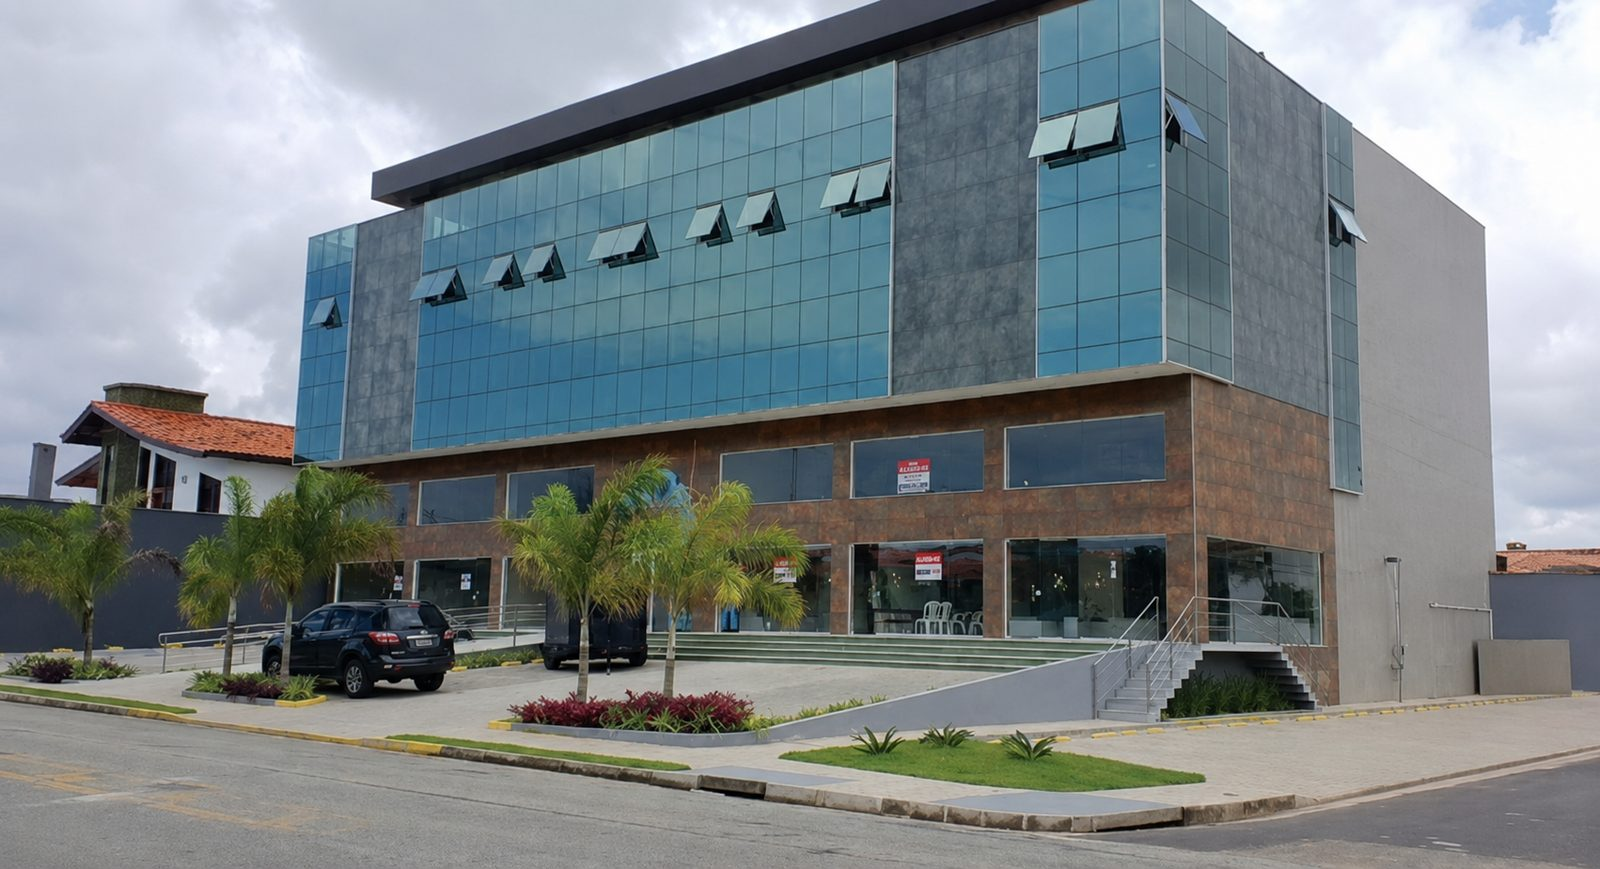
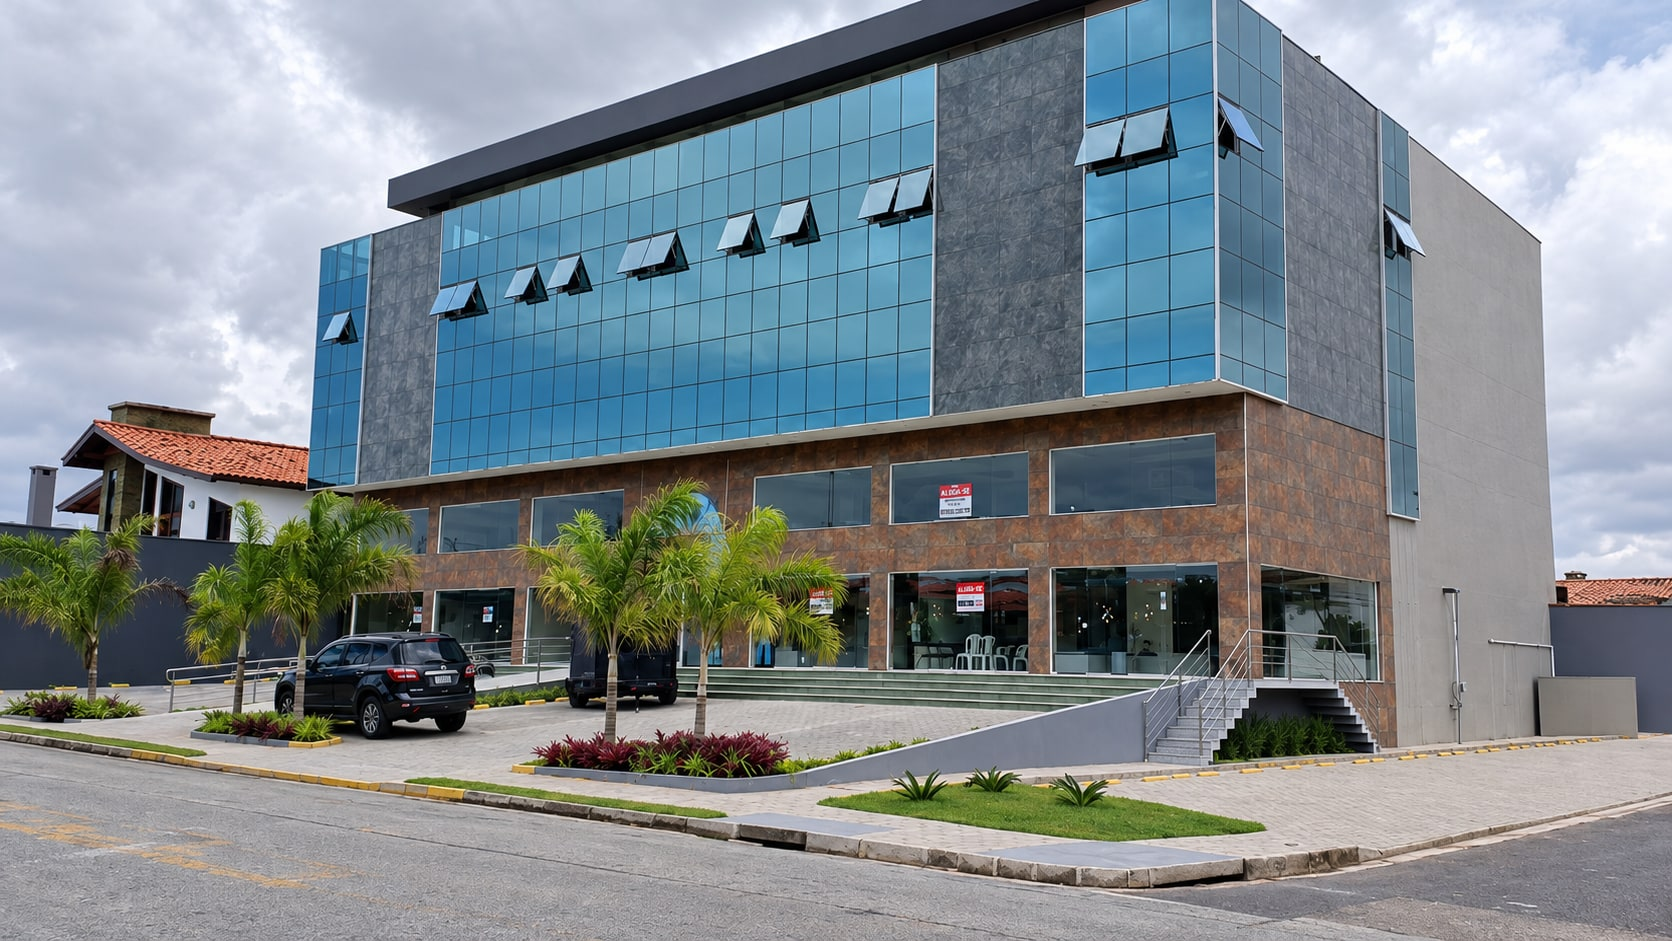
iParking: saguão na hero e a foto do prédio de volta em "Onde fica"
- Hero com a foto do saguão da Galeria A no lugar da fachada.
- "Onde fica" volta a ser a foto grande do prédio com o cartão por cima,
  agora com a fachada melhorada por IA (mais nítida, fiel ao original) e
  a frase de que as vagas ficam no subsolo e o pátio da frente é público.
- Sai o desenho em corte; ficam os três passos desenhados.

diff --git a/app/page.module.css b/app/page.module.css
@@ -102,6 +102,7 @@
 /* Uma foto só, da altura do quadro inteiro */
 .blocoFoto { margin: 0; min-height: 240px; grid-row: 1 / span 2; grid-column: 2; }
 
+.fotoSaguao { object-position: 50% 40%; }
 /* A abertura da foto principal: um obturador que corre da direita */
 .obturador { animation: abre 1.1s var(--ease-out) both; }
 .obturador .foto { animation: assenta 1.4s var(--ease-out) both; }
@@ -228,42 +229,27 @@
 
 .onde {
   margin-top: 200px;
-  padding: 0 var(--margem) var(--vao);
-  display: grid;
-  grid-template-columns: repeat(12, 1fr);
-  gap: var(--vao);
-  align-items: stretch;
+  position: relative;
+  min-height: 100svh;
 }
 
-/* O corte do prédio: mostra que a iParking é o subsolo e que o pátio da frente é público */
-.ondeDesenho {
-  grid-column: 5 / -1;
-  grid-row: 1;
-  margin: 0;
-  padding: 40px 32px 32px;
-  border-radius: var(--raio);
-  background: var(--tinta);
-  color: var(--papel);
-  display: flex;
-  flex-direction: column;
-  justify-content: space-between;
-  gap: 32px;
+.ondeFoto {
+  position: absolute;
+  inset: 0;
+  overflow: hidden;
 }
-.corte { width: 100%; height: auto; }
-.legenda { display: flex; flex-wrap: wrap; gap: 12px 32px; font-size: var(--step-body); }
-.legenda span { display: inline-flex; align-items: center; gap: 12px; }
-.legenda i { width: 20px; height: 20px; border-radius: 4px; flex: none; }
-.legendaVerde { background: var(--verde); }
-.legendaCinza { background: var(--cinza-2); }
+.ondeFoto .foto { animation: deriva 24s ease-in-out infinite alternate; }
+@keyframes deriva { from { transform: scale(1.02); } to { transform: scale(1.1) translateX(-1.5%); } }
 
 .cartao {
-  grid-column: 1 / span 4;
-  grid-row: 1;
+  position: sticky;
+  top: 60px;
+  margin: 60px 0 60px 60px;
+  width: 380px;
   background: var(--papel);
   border-radius: 8px;
   padding: 32px 32px 0;
-  display: flex;
-  flex-direction: column;
+  display: grid;
   gap: 20px;
   overflow: hidden;
 }
@@ -282,7 +268,7 @@
 .cartaoSituacao[data-aberto='sim'] { color: var(--verde-texto); }
 
 .cartaoBotao {
-  margin: auto -32px 0;
+  margin: 4px -32px 0;
   height: 52px;
   display: flex;
   align-items: center;
@@ -297,7 +283,7 @@
 
 /* ——— Dúvidas ——— */
 
-.duvidas { margin-top: 200px; }
+.duvidas { margin-top: 0; }
 
 .duvidasTitulo {
   min-height: 40svh;
@@ -406,7 +392,6 @@
 @media (max-width: 1100px) {
   .blocoNav { gap: 20px; padding: 0 20px; justify-content: flex-end; }
   .dupla { grid-template-columns: 1fr; }
-  .ondeDesenho, .cartao { grid-column: 1 / -1; grid-row: auto; }
   .tabela { display: none; }
   .planosCelular { display: grid; grid-template-columns: repeat(3, 1fr); gap: var(--vao); align-items: start; }
   .planosCelular .tituloSecao { grid-column: 1 / -1; padding: 0 20px 16px; }
@@ -434,7 +419,7 @@
   .topo { grid-template-columns: 56px 1fr; }
   .grade { grid-template-columns: 1fr; grid-template-rows: auto; }
   .blocoNome { min-height: 30svh; padding: 20px; }
-  .blocoFoto { grid-row: auto; grid-column: auto; aspect-ratio: 4 / 3; min-height: 0; }
+  .blocoFoto { grid-row: auto; grid-column: auto; aspect-ratio: 4 / 5; min-height: 0; }
   .dupla { grid-row: auto; grid-column: auto; }
   .dupla { grid-template-columns: 1fr; }
   .blocoEscuro, .blocoVerde { padding: 20px; }
@@ -448,13 +433,12 @@
   .etapas li { padding: 24px 20px; }
   .picto { max-width: 280px; margin-bottom: 16px; }
 
-  .onde { margin-top: 120px; grid-template-columns: 1fr; }
-  .ondeDesenho, .cartao { grid-column: 1; grid-row: auto; }
-  .ondeDesenho { padding: 24px 16px 20px; gap: 20px; }
-  .legenda { flex-direction: column; }
+  .onde { margin-top: 120px; min-height: 0; padding-bottom: 120px; }
+  .ondeFoto { position: relative; height: 70svh; }
+  .cartao { position: relative; top: auto; width: auto; margin: -80px 16px 0; }
   .cartaoBotao { height: 56px; }
 
-  .duvidas { margin-top: 120px; }
+
   .duvidasTitulo { min-height: 30svh; }
   .duvidasTitulo h2 { font-size: 22vw; }
   .faixa { grid-template-columns: 1fr; gap: 12px; padding: 32px 20px; }

diff --git a/app/page.tsx b/app/page.tsx
@@ -2,11 +2,12 @@ import Image from 'next/image'
 import { Situacao, Relogio } from '@/components/Agora'
 import { Calculadora } from '@/components/Calculadora'
 import { Entradas } from '@/components/Entradas'
-import { Corte, PictoCancela, PictoChegue, PictoSubsolo } from '@/components/Desenhos'
+import { PictoCancela, PictoChegue, PictoSubsolo } from '@/components/Desenhos'
 import { CONTATO, EMPRESA, HORARIO, LOCAL, PRECO, real } from '@/lib/dados'
 import logo from '@/public/marca/iparking.png'
 import logoI from '@/public/marca/iparking-i.png'
 import fachada from '@/public/fotos/galeria-a-fachada.jpg'
+import saguao from '@/public/fotos/galeria-a-saguao.jpg'
 import orla from '@/public/fotos/pescadores-litoranea.jpg'
 import s from './page.module.css'
 
@@ -118,8 +119,8 @@ export default function Pagina() {
           </div>
 
           <figure className={`${s.bloco} ${s.blocoFoto} ${s.obturador}`}>
-            <Image src={fachada} alt="A Galeria A vista da Av. dos Sambaquis: fachada de vidro, palmeiras e o pátio público na frente"
-              fill priority sizes="(max-width: 760px) 100vw, 42vw" className={s.foto} />
+            <Image src={saguao} alt="O saguão da Galeria A: parede de placas escuras com plantas, luminárias douradas e o letreiro da Galeria ao fundo"
+              fill priority sizes="(max-width: 760px) 100vw, 42vw" className={`${s.foto} ${s.fotoSaguao}`} />
           </figure>
 
           <div className={s.dupla}>
@@ -237,19 +238,17 @@ export default function Pagina() {
 
         {/* Onde fica */}
         <section id="onde-fica" className={s.onde} aria-labelledby="titulo-onde">
-          <figure className={s.ondeDesenho}>
-            <Corte className={s.corte} />
-            <figcaption className={s.legenda}>
-              <span><i className={s.legendaVerde} aria-hidden="true" />Subsolo: as vagas da iParking</span>
-              <span><i className={s.legendaCinza} aria-hidden="true" />Pátio da frente: público, não é da iParking</span>
-            </figcaption>
-          </figure>
+          <div className={s.ondeFoto}>
+            <Image src={fachada} alt="A Galeria A vista da Av. dos Sambaquis: fachada de vidro, palmeiras e o pátio público na frente"
+              fill sizes="100vw" className={s.foto} />
+          </div>
           <div className={s.cartao}>
             <h2 id="titulo-onde" className={s.cartaoTitulo}>No subsolo da {LOCAL.predio}</h2>
             <address className={s.endereco}>
               {LOCAL.rua}, {LOCAL.bairro}<br />
               {LOCAL.cidade} — {LOCAL.uf}
             </address>
+            <p className={s.endereco}>As vagas da iParking ficam no subsolo. O pátio da frente é público.</p>
             <dl className={s.horario}>
               {HORARIO.map((h) => (
                 <div key={h.dias}>

diff --git a/components/Desenhos.tsx b/components/Desenhos.tsx
@@ -1,6 +1,5 @@
 // Desenhos da iParking, em formas chapadas com as cores do logo.
-// São esquemas, não plantas: mostram o caminho (rua, cancela, subsolo) e que só o subsolo é da iParking;
-// o pátio da frente é público.
+// São esquemas, não plantas: mostram o caminho da rua até o subsolo, que é onde fica a iParking.
 
 // Um carro visto de lado, 120 × 55, com a frente para a direita.
 function Carro({ x, y, cor, escala = 1 }: { x: number; y: number; cor: string; escala?: number }) {
@@ -67,36 +66,6 @@ export function PictoSubsolo({ className }: { className?: string }) {
       <rect x="10" y="80" width="280" height="96" rx="6" fill="var(--verde)" />
       <Carro x={26} y={112} cor="var(--tinta)" escala={0.95} />
       <Carro x={158} y={112} cor="var(--tinta)" escala={0.95} />
-    </svg>
-  )
-}
-
-// O corte da Galeria A: rua à esquerda, pátio público na frente, prédio, e o subsolo da iParking embaixo.
-export function Corte({ className }: { className?: string }) {
-  return (
-    <svg className={className} viewBox="0 0 1200 500" role="img" focusable="false"
-      aria-label="Desenho em corte da Galeria A: a rua, o pátio da frente, que é público, o prédio e, embaixo dele, o subsolo com as vagas da iParking">
-      {/* Prédio: quatro andares de vidro */}
-      <rect x="640" y="40" width="540" height="240" rx="4" fill="#2A2C30" />
-      {[0, 1, 2, 3].map((l) =>
-        Array.from({ length: 9 }, (_, c) => (
-          <rect key={`${l}-${c}`} x={664 + c * 56} y={58 + l * 54} width="42" height="34" rx="3" fill={CHAO} opacity="0.5" />
-        )),
-      )}
-      {/* Rua e pátio, no nível do chão */}
-      <rect x="0" y="232" width="250" height="48" fill="#2A2C30" />
-      <Carro x={60} y={210} cor="var(--cinza)" />
-      <Carro x={320} y={210} cor="var(--cinza-2)" />
-      <Carro x={470} y={210} cor="var(--cinza-2)" />
-      <rect x="0" y="276" width="1200" height="8" rx="4" fill={CHAO} />
-      {/* A descida para o subsolo */}
-      <path d="M210 250C262 250 262 320 296 352" fill="none" stroke="var(--papel)" strokeWidth="10" strokeLinecap="round" />
-      <path d="M268 352L300 356L290 326" fill="none" stroke="var(--papel)" strokeWidth="10" strokeLinecap="round" strokeLinejoin="round" />
-      {/* O subsolo: a iParking */}
-      <rect x="320" y="304" width="860" height="176" rx="8" fill="var(--verde)" />
-      {[0, 1, 2, 3, 4].map((i) => (
-        <Carro key={i} x={360 + i * 162} y={392} cor="var(--tinta)" />
-      ))}
     </svg>
   )
 }
